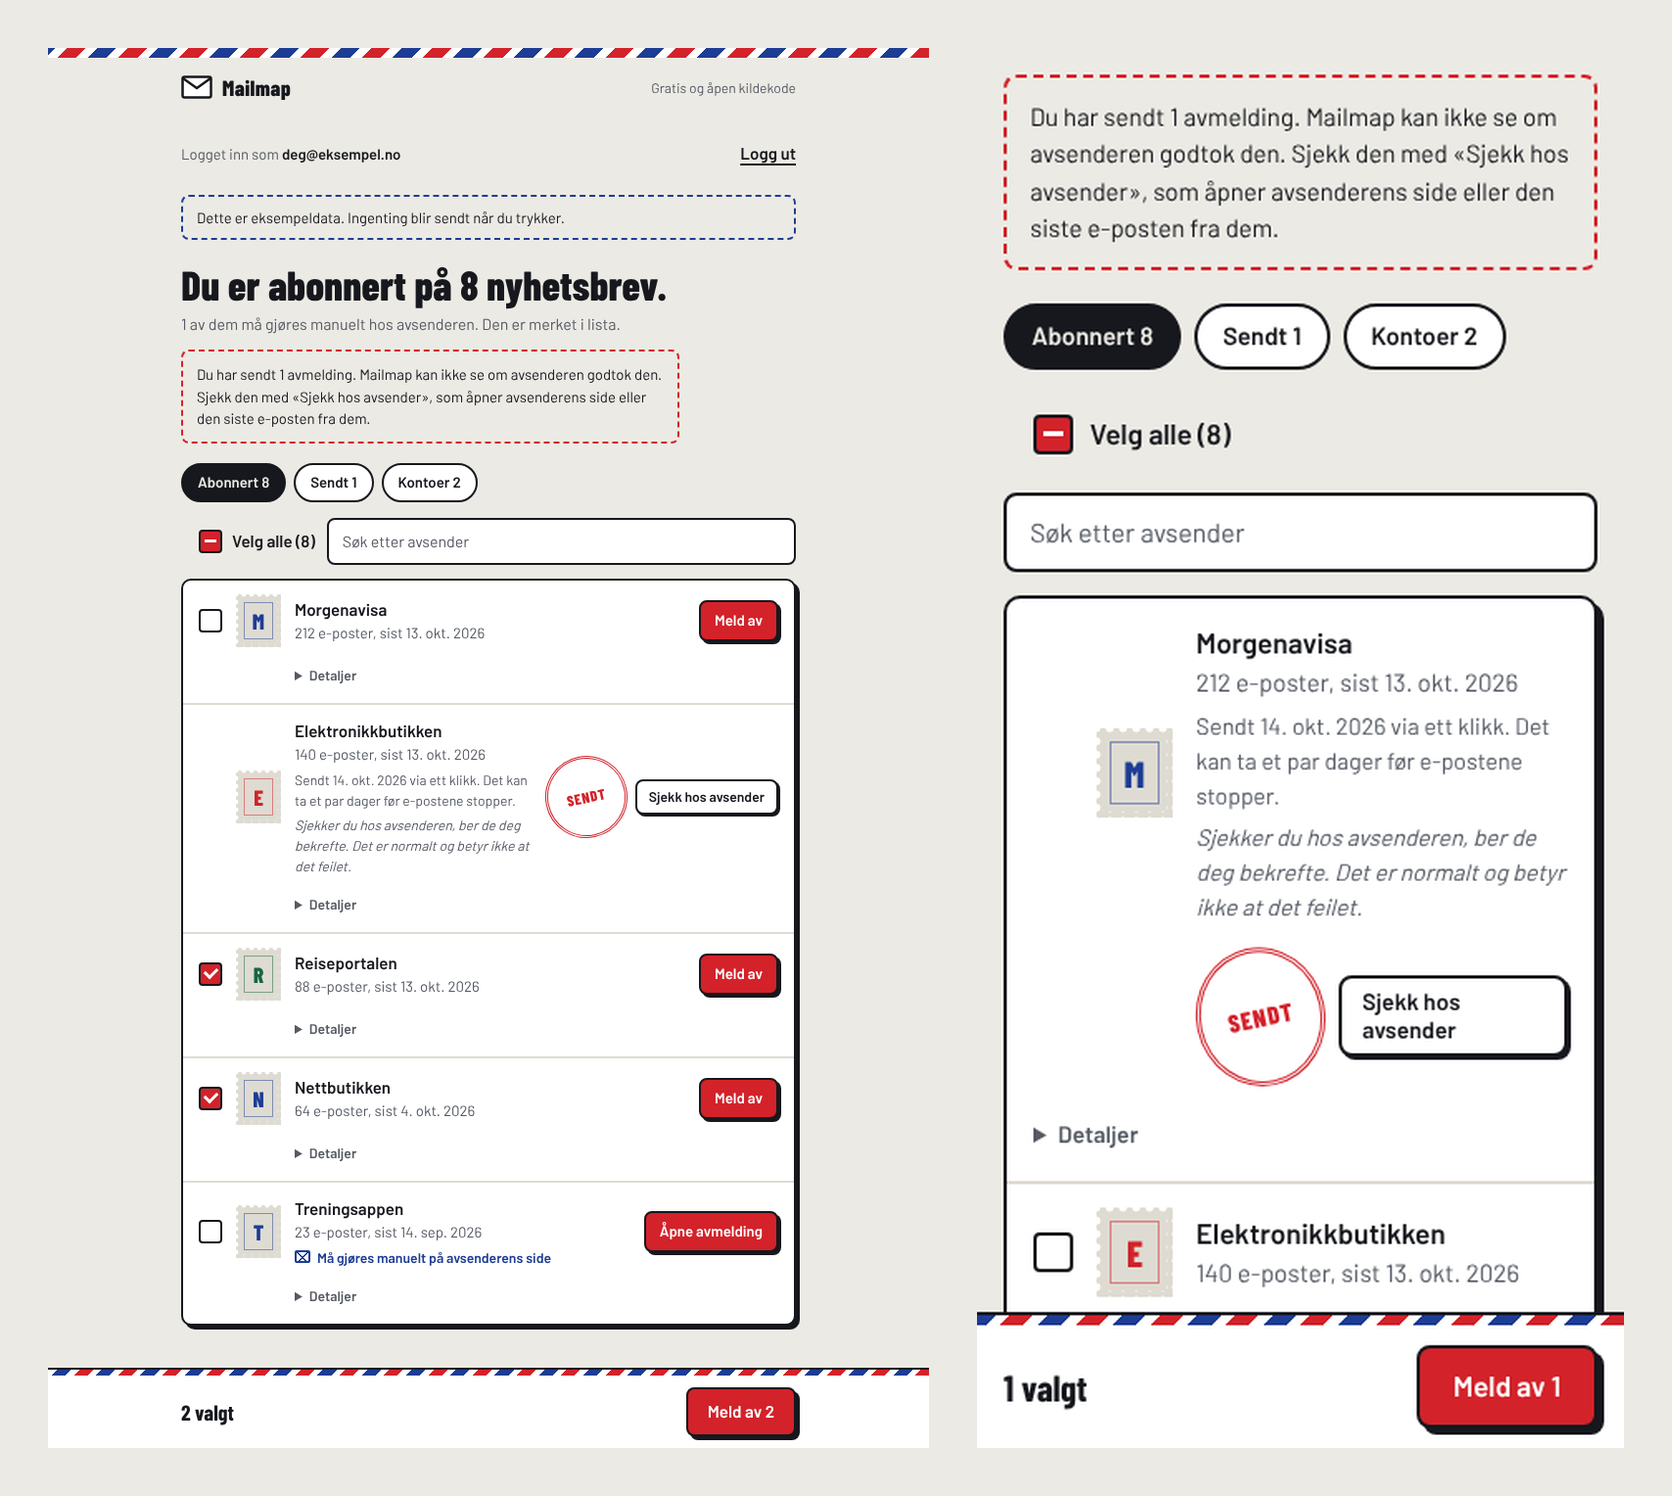
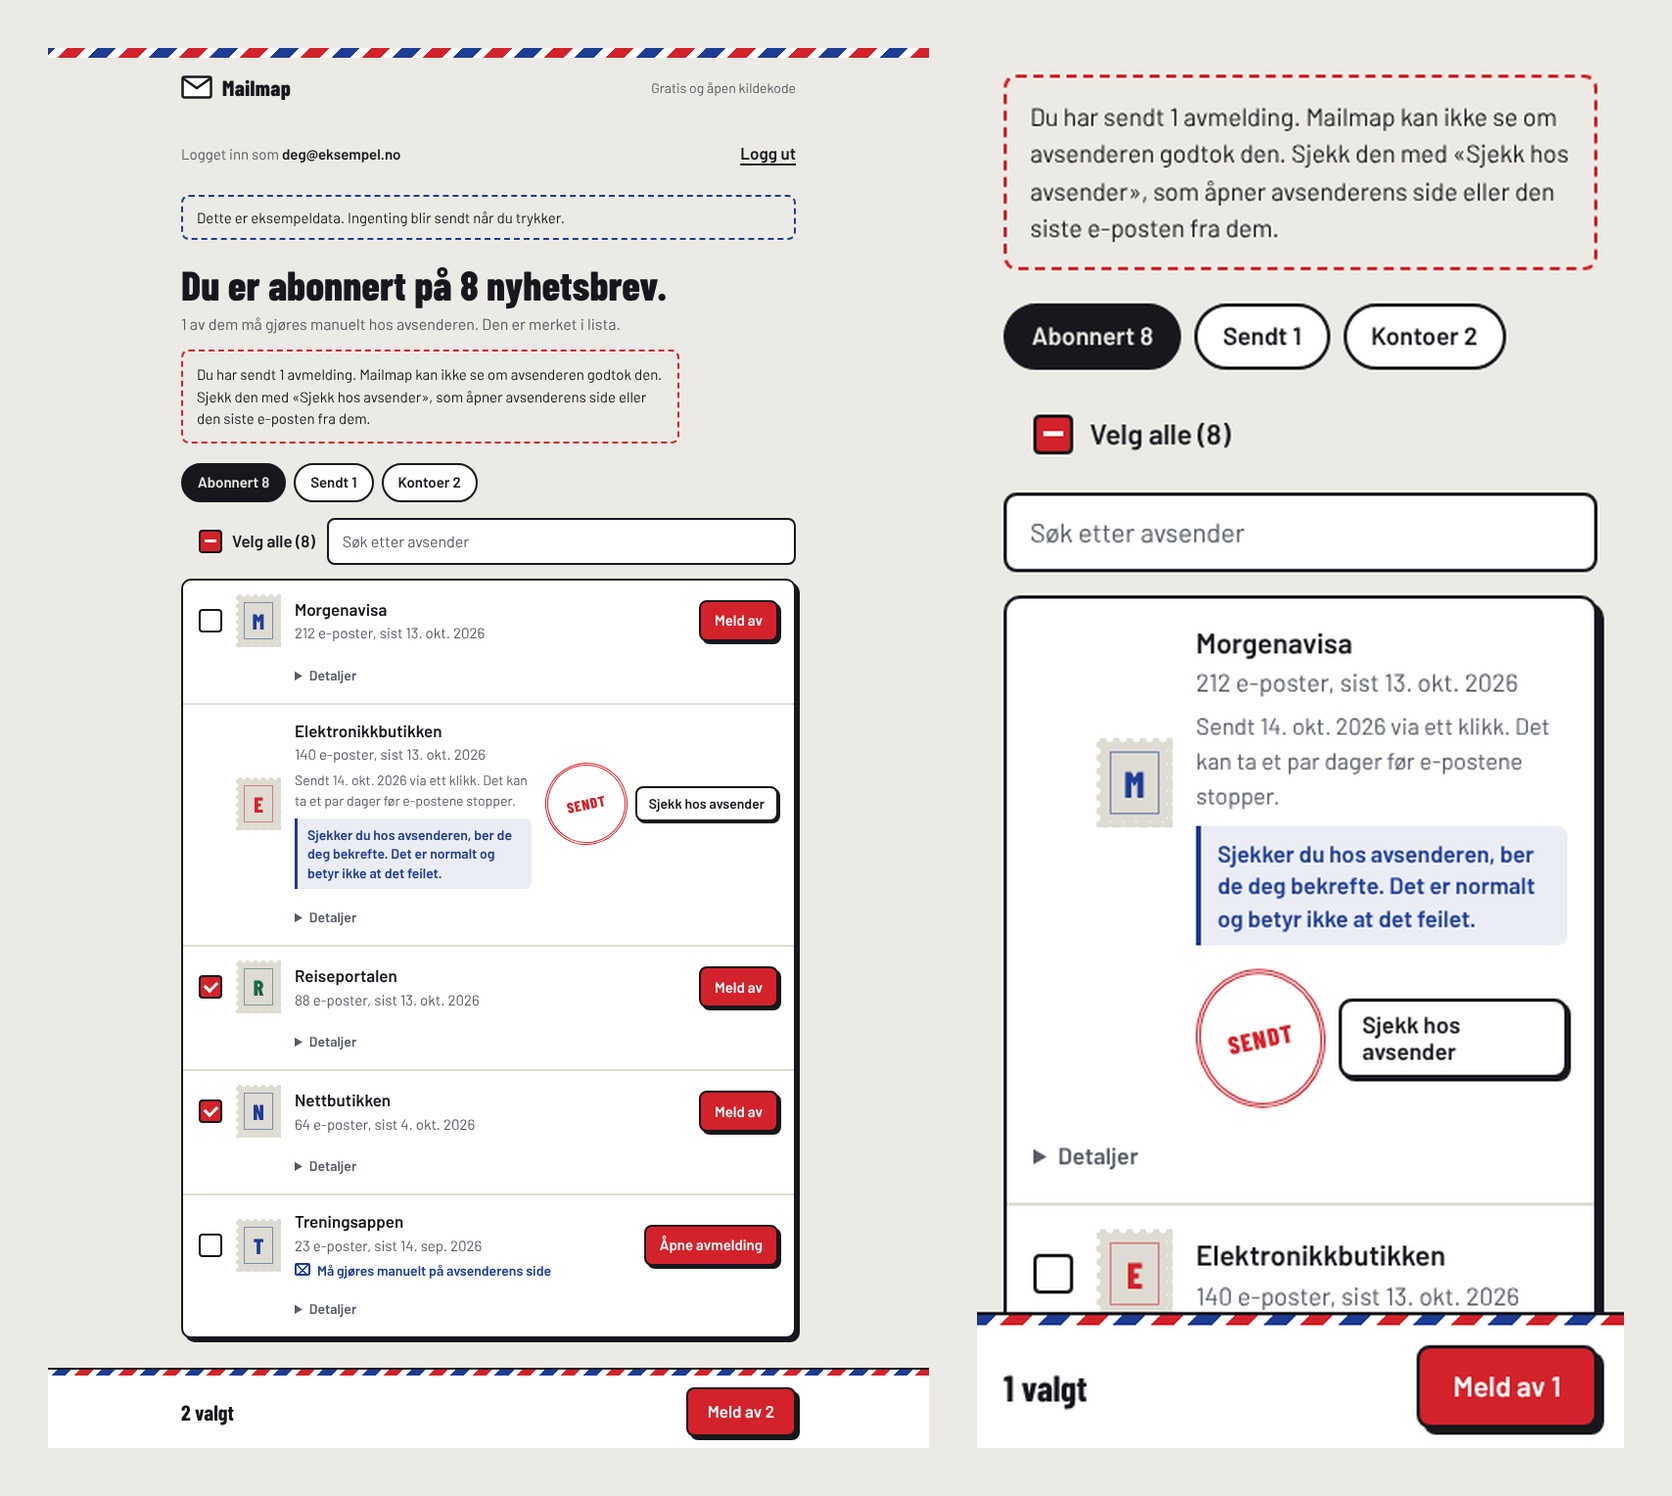
Make the confirmation hint stand out (blue, bold, boxed); refresh screenshots
Claude-Session: https://claude.ai/code/session_01XbGBdyfTHEKzCp5Y8JLQWF

diff --git a/web/index.html b/web/index.html
@@ -141,7 +141,7 @@ h2{font:800 clamp(32px,7vw,42px)/1 var(--display);margin:0;text-wrap:balance}
 .manualnote{margin:8px 0 0;font-size:16px;color:var(--mute)}
 .checknote{margin:14px 0 0;padding:12px 14px;border:2px dashed var(--red);border-radius:8px;font-size:15px;color:var(--ink);max-width:60ch}
 .act .btn.small{min-height:36px}
-.who .hint{white-space:normal;margin-top:4px;font-size:14px;color:var(--mute);font-style:italic}
+.who .hint{white-space:normal;margin-top:8px;padding:7px 10px;font-size:14px;font-weight:600;line-height:1.4;color:var(--blue);background:color-mix(in srgb,var(--blue) 9%,transparent);border-left:3px solid var(--blue);border-radius:0 6px 6px 0}
 .who .note.quiet{color:var(--ok);font-weight:600}
 .det{flex-basis:100%;margin-left:98px;font-size:14px;color:var(--mute)}
 .det summary{cursor:pointer;width:max-content;font-weight:600;color:var(--mute);padding:4px 0}
@@ -250,7 +250,7 @@ h2{font:800 clamp(32px,7vw,42px)/1 var(--display);margin:0;text-wrap:balance}
 </div>
 <div class="toast" id="toast" role="status"></div>
 
-<script src="config.js?v=c387b7a9"></script>
-<script src="app.js?v=c387b7a9"></script>
+<script src="config.js?v=ceb3a7b1"></script>
+<script src="app.js?v=ceb3a7b1"></script>
 </body>
 </html>

diff --git a/web/app.html b/web/app.html
@@ -136,7 +136,7 @@ h2{font:800 clamp(32px,7vw,42px)/1 var(--display);margin:0;text-wrap:balance}
 .manualnote{margin:8px 0 0;font-size:16px;color:var(--mute)}
 .checknote{margin:14px 0 0;padding:12px 14px;border:2px dashed var(--red);border-radius:8px;font-size:15px;color:var(--ink);max-width:60ch}
 .act .btn.small{min-height:36px}
-.who .hint{white-space:normal;margin-top:4px;font-size:14px;color:var(--mute);font-style:italic}
+.who .hint{white-space:normal;margin-top:8px;padding:7px 10px;font-size:14px;font-weight:600;line-height:1.4;color:var(--blue);background:color-mix(in srgb,var(--blue) 9%,transparent);border-left:3px solid var(--blue);border-radius:0 6px 6px 0}
 .who .note.quiet{color:var(--ok);font-weight:600}
 .det{flex-basis:100%;margin-left:98px;font-size:14px;color:var(--mute)}
 .det summary{cursor:pointer;width:max-content;font-weight:600;color:var(--mute);padding:4px 0}
